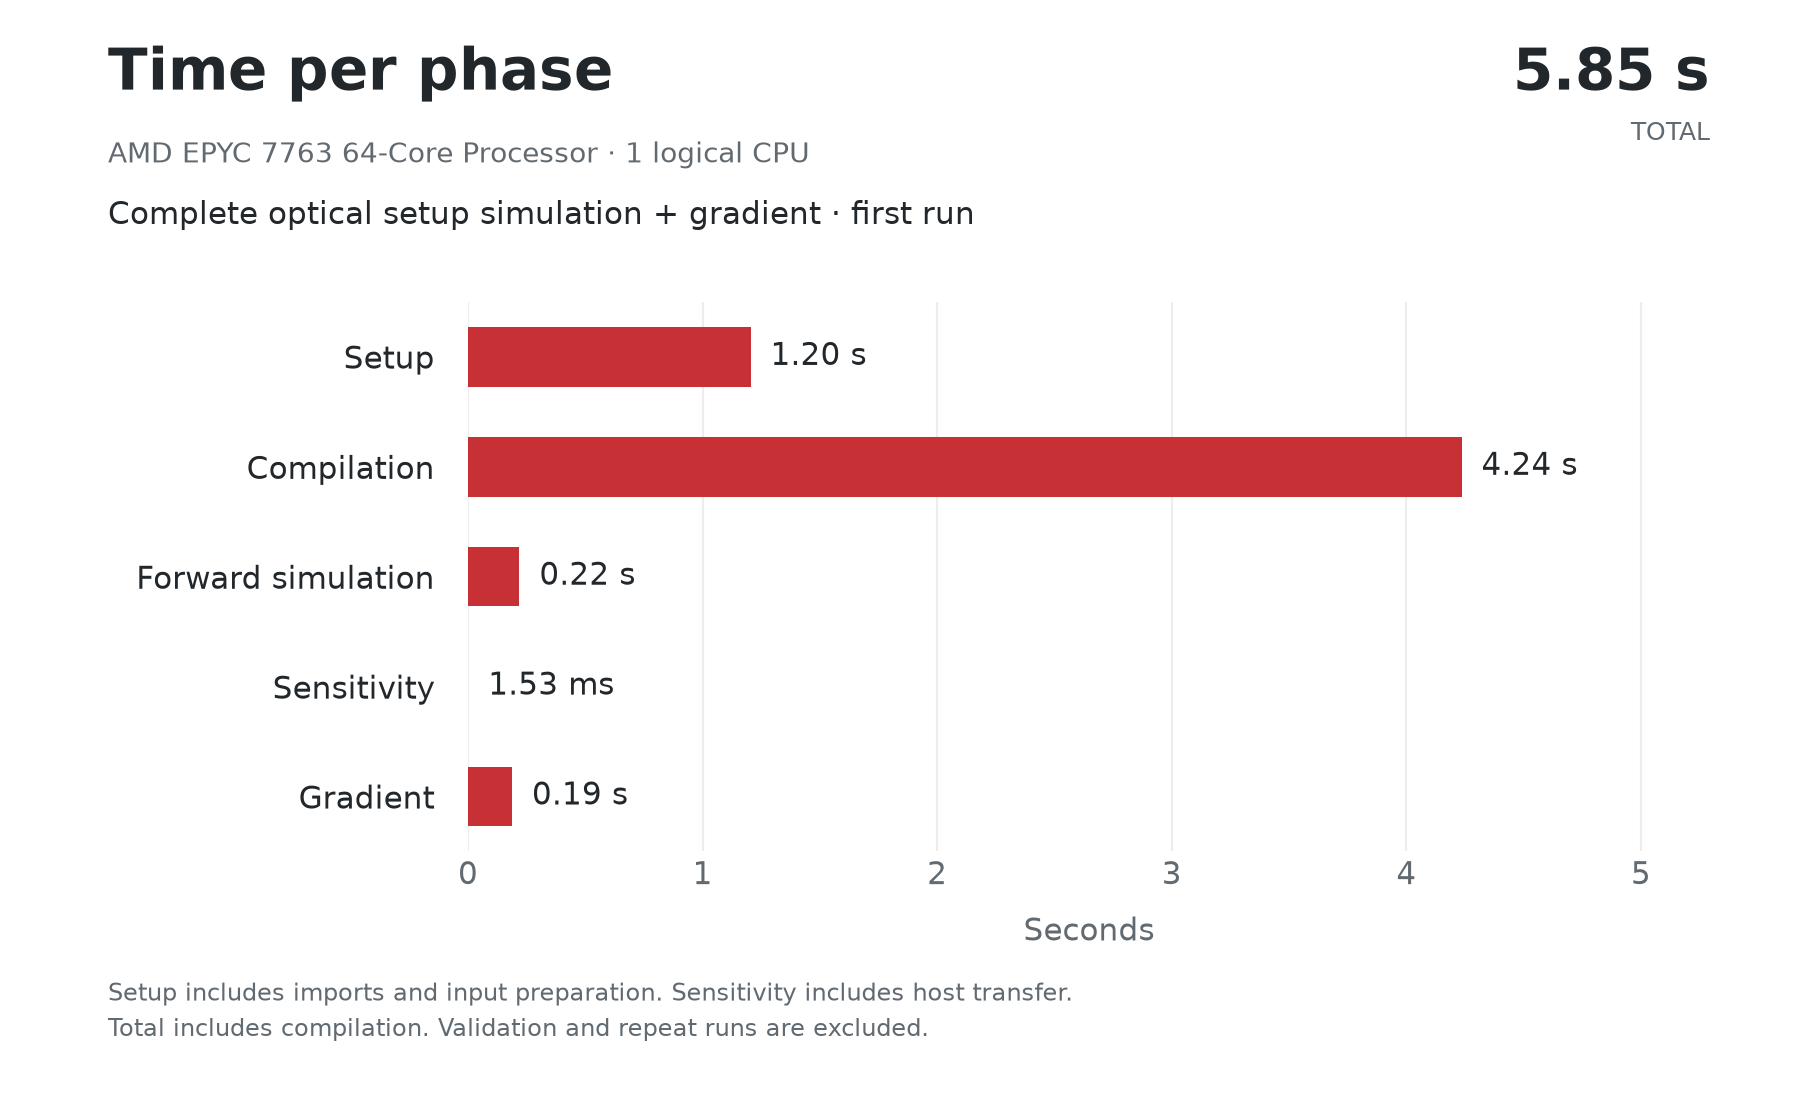
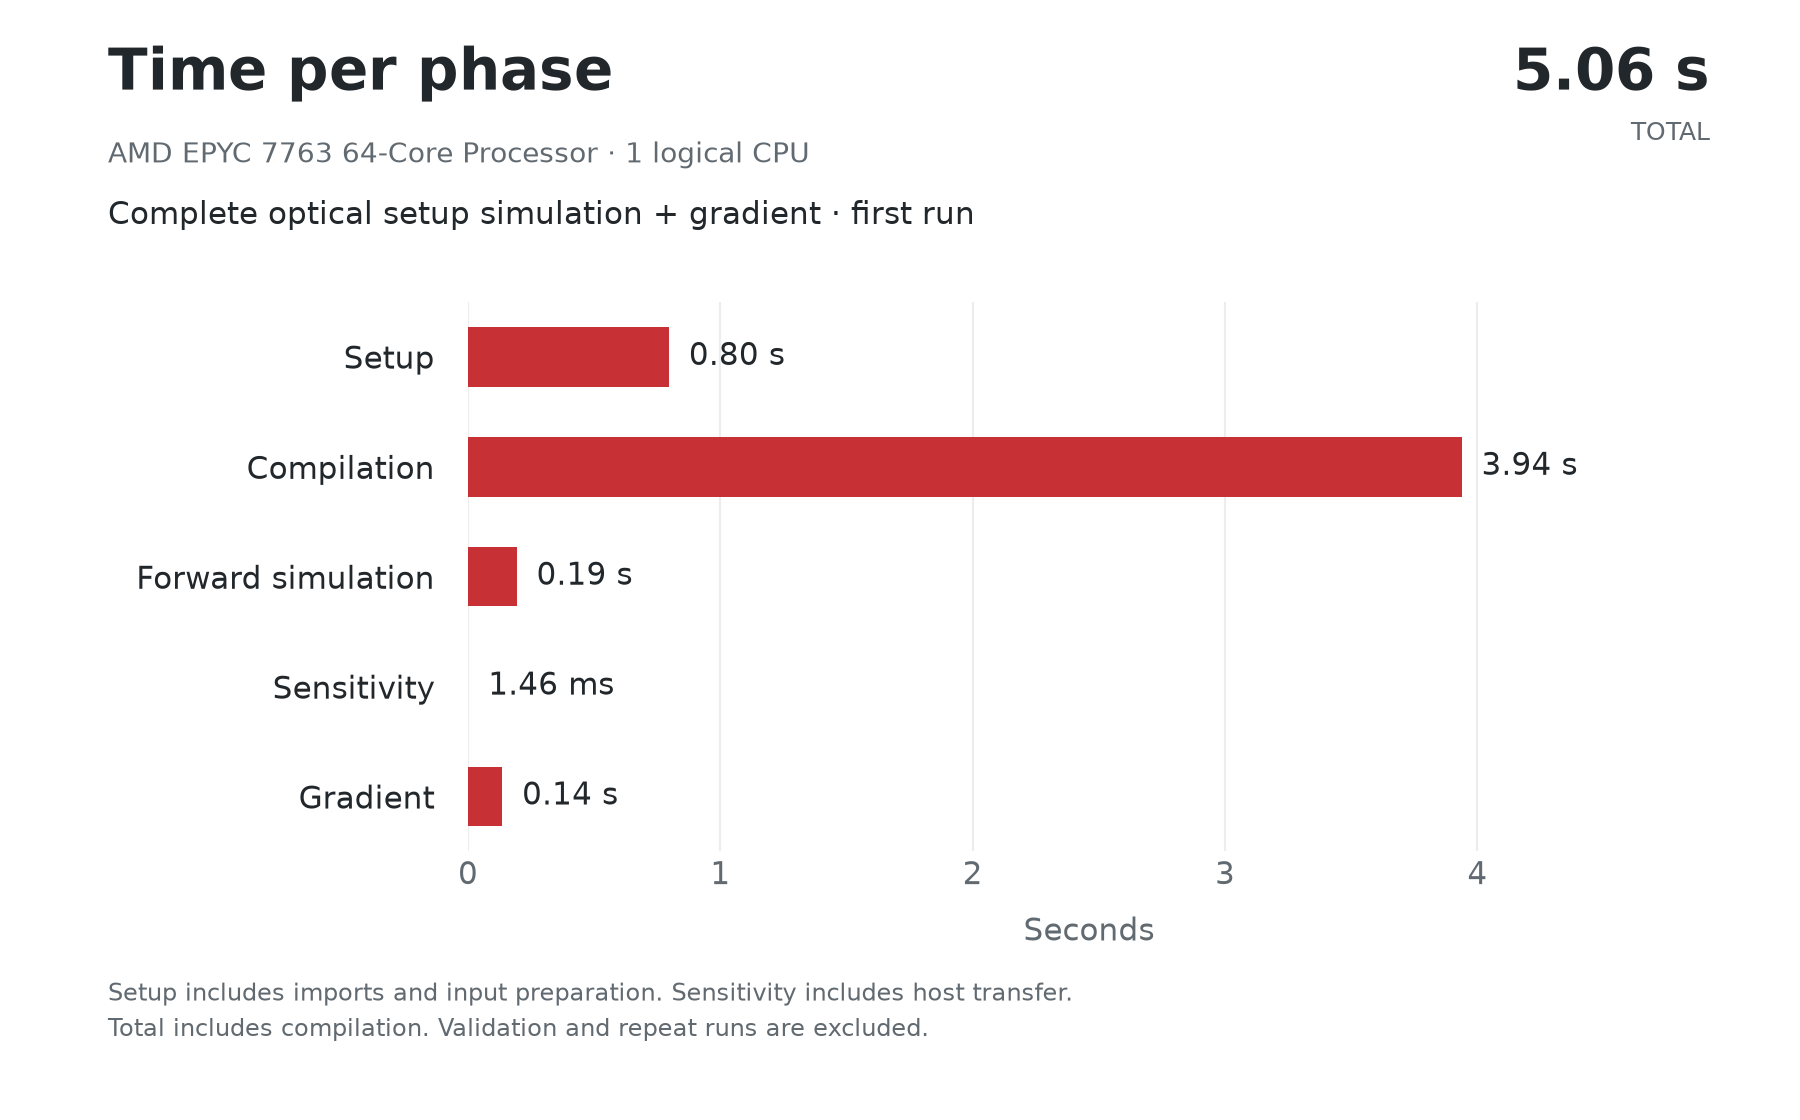
Drop the redundant noise solve, trace functions on whole arrays, build with NumPy
- The noise projection Re(c^H A^-1 N w) with c = A^H w equals Re(w^H N w),
  so the third signal solve per frequency is removed.
- evaluate() calls each component function once on arrays instead of under
  vmap; standardize_output() broadcasts its entries to allow that.
- The build step evaluates its constant matrix entries with NumPy, which
  avoids 65 small device compilations.

Complete first run on one AMD EPYC core: 5.7 s -> 5.1 s. Outputs pass the
benchmark and match the original to about 6e-8, also at perturbed parameters.

diff --git a/differometor/simulate.py b/differometor/simulate.py
@@ -26,7 +26,7 @@ from jax import lax, vmap, jit
 
 from differometor.setups import Setup
 from differometor.build import build, pairs_to_arrays, prepare_arrays, LINKING_FUNCTIONS
-from differometor.components import FUNCTIONS, UNIT_VACUUM, H_PLANCK, F0
+from differometor.components import FUNCTIONS, UNIT_VACUUM, H_PLANCK, F0, numpy_backend
 
 
 jax.config.update("jax_enable_x64", True)
@@ -94,7 +94,7 @@ def evaluate(
     Parameters
     ----------
     parameters : jnp.ndarray
-        Parameter values for one simulation instance, shape (P,).
+        Parameter values, shape (P,) for one simulation instance or (V, P) for V of them.
     function_input_indices : jnp.ndarray
         Indices into `parameters` selecting inputs to the component functions,
         shape (K, 7).
@@ -108,7 +108,7 @@ def evaluate(
     Returns
     -------
     outputs : jnp.ndarray
-        Selected function outputs, shape (M,).
+        Selected function outputs, shape (M,) or (V, M).
 
     Notes
     -----
@@ -116,14 +116,19 @@ def evaluate(
     traced once and only for the inputs that use it. Selecting with `lax.switch`
     under `vmap` instead evaluates every function for every input and compiles
     several times slower.
+
+    The component functions work elementwise on their seven inputs, so each one is
+    called once on arrays of shape (7, ..., K_f) instead of under `vmap`, which is
+    slower to trace.
     """
-    function_inputs = parameters[function_input_indices]
     function_indices = function_indices.array
-    output_matrix = jnp.zeros((len(function_indices), 4), dtype=jnp.complex128)
+    output_matrix = jnp.zeros((*parameters.shape[:-1], len(function_indices), 4), dtype=jnp.complex128)
     for function_index in np.unique(function_indices):
         inputs = np.nonzero(function_indices == function_index)[0]
-        output_matrix = output_matrix.at[inputs].set(vmap(FUNCTIONS[function_index])(function_inputs[inputs]))
-    return output_matrix[output_indices[0], output_indices[1]]
+        function_inputs = jnp.moveaxis(parameters[..., function_input_indices[inputs]], -1, 0)
+        function_outputs = jnp.moveaxis(FUNCTIONS[function_index](function_inputs), 0, -1)
+        output_matrix = output_matrix.at[..., inputs, :].set(function_outputs)
+    return output_matrix[..., output_indices[0], output_indices[1]]
 
 
 def update(
@@ -140,7 +145,7 @@ def update(
     Parameters
     ----------
     parameters, function_input_indices, output_indices, function_indices :
-        See `evaluate`.
+        See `evaluate`. `parameters` has shape (P,) here.
     matrix : jnp.ndarray
         Base matrix to update, shape (N, N + 1) for augmented systems, or (N, N).
     matrix_indices : tuple[jnp.ndarray, jnp.ndarray]
@@ -341,14 +346,13 @@ def simulate(
     # Carrier solve
     # --------------------
     parameters = expand_parameters(parameters, carrier_changing_parameter_indices, carrier_changing_values)
-    carrier_matrix = vmap(update, in_axes=(0, None, None, None, None, None))(
-        parameters,
-        carrier_matrix,
-        carrier_function_input_indices,
-        carrier_output_indices,
-        carrier_matrix_indices,
-        carrier_function_indices,
+    carrier_outputs = evaluate(
+        parameters, carrier_function_input_indices, carrier_output_indices, carrier_function_indices
     )
+    carrier_matrix = jnp.broadcast_to(
+        carrier_matrix.astype(jnp.complex128), (parameters.shape[0], *carrier_matrix.shape)
+    )
+    carrier_matrix = carrier_matrix.at[:, carrier_matrix_indices[0], carrier_matrix_indices[1]].set(carrier_outputs)
     carrier = vmap(solve)(carrier_matrix[:, :, :-1], carrier_matrix[:, :, -1])
 
     # --------------------
@@ -366,9 +370,7 @@ def simulate(
     ).astype(jnp.complex128)
     signal_values = jnp.broadcast_to(signal_values, (signal_value_count, signal_values.shape[0]))
     signal_values = signal_values.at[:, signal_sparse_indices["update_slots"]].set(
-        vmap(evaluate, in_axes=(0, None, None, None))(
-            parameters, signal_function_input_indices, signal_output_indices, signal_function_indices
-        )
+        evaluate(parameters, signal_function_input_indices, signal_output_indices, signal_function_indices)
     )
 
     # Scale signal connector entries by the carrier solution at the respective spaces.
@@ -442,19 +444,17 @@ def simulate(
     noise_values = noise_matrix[noise_rows, noise_columns].astype(jnp.complex128)
     noise_values = jnp.broadcast_to(noise_values, (signal_value_count, noise_values.shape[0]))
     noise_values = noise_values.at[:, noise_sparse_indices["update_slots"]].set(
-        vmap(evaluate, in_axes=(0, None, None, None))(
-            parameters, noise_function_input_indices, noise_output_indices, noise_function_indices
+        evaluate(parameters, noise_function_input_indices, noise_output_indices, noise_function_indices)
+    )
+
+    # Propagating the noise sources N w through the signal matrix A and projecting on the
+    # selections c = A^H w gives Re(c^H A^-1 N w) = Re(w^H N w), so no further solve is needed.
+    temporary_sum = jnp.real(
+        jnp.sum(
+            noise_values[:, :, None] * noise_weights[:, noise_columns] * jnp.conjugate(noise_weights[:, noise_rows]),
+            axis=1,
         )
-    )
-
-    # Project noise sources into the system and propagate through the signal matrix.
-    noise_sources = jnp.zeros_like(noise_weights).at[:, noise_rows].add(
-        noise_values[:, :, None] * noise_weights[:, noise_columns]
-    )
-    covariances = klujax.solve(rows, columns, signal_values, noise_sources)
-
-    # Convert propagated covariances into amplitude spectral density.
-    temporary_sum = jnp.sum(jnp.real(covariances * jnp.conjugate(carrier_selections)), axis=1).T
+    ).T
     noise = jnp.sqrt(2 * temporary_sum * UNIT_VACUUM * H_PLANCK * F0 * 0.25)
 
     return carrier.T, signal.T, noise.squeeze()
@@ -568,7 +568,8 @@ def run_build_step(
     """
     start = time()
 
-    instructions, matrices, metadata = build(setup)
+    with numpy_backend():
+        instructions, matrices, metadata = build(setup)
     arrays_to_prepare, carrier_arrays, signal_arrays, noise_arrays = pairs_to_arrays(
         *instructions, optimization_pairs, changing_pairs
     )

diff --git a/differometor/components.py b/differometor/components.py
@@ -34,8 +34,28 @@ to match phase conventions and signs.
 
 from __future__ import annotations
 
+from contextlib import contextmanager
+
 import jax.numpy as jnp
 import numpy as np
+
+
+@contextmanager
+def numpy_backend():
+    """
+    Evaluate the functions of this module with NumPy instead of JAX.
+
+    The build step evaluates component functions on plain numbers to fill in the
+    constant matrix entries. With JAX every such scalar operation is dispatched to,
+    and at first use compiled for, the device, which made up about half of the build
+    time. Nothing computed inside this context is traced or differentiated.
+    """
+    global jnp
+    jax_numpy, jnp = jnp, np
+    try:
+        yield
+    finally:
+        jnp = jax_numpy
 
 
 # -----------------------------------------------------------------------------
@@ -101,14 +121,14 @@ def standardize_output(output: list) -> jnp.ndarray:
     Parameters
     ----------
     output:
-        Python list of scalars (real or complex). If shorter than 4, it is padded
-        with zeros to length 4.
+        Python list of scalars or equally shaped arrays (real or complex). If shorter
+        than 4, it is padded with zeros to length 4.
 
     Returns
     -------
     jax.numpy.ndarray
-        A length-4 complex vector (`complex128`) suitable for stacking into a
-        global simulation matrix.
+        A complex array (`complex128`) of shape (4, ...) suitable for stacking into a
+        global simulation matrix. For scalar entries this is a length-4 vector.
 
     Rationale
     ---------
@@ -119,7 +139,9 @@ def standardize_output(output: list) -> jnp.ndarray:
     output_length = len(output)
     if output_length < 4:
         output.extend([0] * (4 - output_length))
-    return jnp.array(output, dtype=jnp.complex128)
+    # Broadcasting lets a component function be called once on whole arrays of inputs.
+    shape = jnp.broadcast_shapes(*(jnp.shape(entry) for entry in output))
+    return jnp.stack([jnp.broadcast_to(jnp.asarray(entry, dtype=jnp.complex128), shape) for entry in output])
 
 
 # -----------------------------------------------------------------------------

diff --git a/differometor/build.py b/differometor/build.py
@@ -1285,7 +1285,7 @@ def build(setup: Setup):
             target_output_index = target_index
 
         # Initialize the carrier matrix with the space propagation entry.
-        space_entry = space(jnp.array([F, data["properties"]["length"], data["properties"]["refractive_index"]]))[0]
+        space_entry = space(np.array([F, data["properties"]["length"], data["properties"]["refractive_index"]]))[0]
         carrier_matrix[source_input_index, target_output_index] = space_entry
         carrier_matrix[target_input_index, source_output_index] = space_entry
 

diff --git a/CHANGES.md b/CHANGES.md
@@ -9,24 +9,26 @@ Official benchmark (`python benchmark.py --cpus 1`), complete first run, one CPU
 | Machine | Original | Ours |
 | --- | ---: | ---: |
 | Intel Xeon Platinum 8468 (Feyer's published baseline) | 44.2 s | not measured yet |
-| AMD EPYC 7763, GitHub Codespace, Python 3.12 | does not fit in 16 GB of RAM | **5.8 s** |
+| AMD EPYC 7763, GitHub Codespace, Python 3.12 | does not fit in 16 GB of RAM | **5.1 s** |
 
 Same Codespace, one core, both versions in the style of `start_here.py` (one compile, one run):
 
 | | Original | Ours |
 | --- | ---: | ---: |
-| Setup | 1.4 s | 1.2 s |
-| Compile | 22.6 s | 4.0 s |
+| Setup | 1.4 s | 0.8 s |
+| Compile | 22.6 s | 3.8 s |
 | First run | 11.7 s | 0.3 s |
-| **Total** | **35.8 s** | **5.6 s** |
+| **Total** | **35.8 s** | **4.8 s** |
 
-A repeat run, once compiled, takes 0.34 s in the official benchmark (the published baseline is 17.7 s).
+A repeat run, once compiled, takes 0.25 s in the official benchmark (the published baseline is 17.7 s).
+
+The two machines in the first table are different, so 44.2 s and 5.1 s are not a same-hardware comparison. The second table is.
 
 The report and chart of our run are in `benchmarks/codespace-candidate.json` and `benchmarks/codespace-candidate.png`.
 
-## The four changes
+## The seven changes
 
-All code changes are in `differometor/simulate.py` and `differometor/__init__.py`. The physics functions in `components.py` and the builder in `build.py` are untouched.
+Most of the code changes are in `differometor/simulate.py`. The formulas of the physics functions in `components.py` are untouched.
 
 ### 1. Solve the signal system with a sparse solver
 
@@ -67,7 +69,34 @@ All code changes are in `differometor/simulate.py` and `differometor/__init__.py
 - **Safety:** XLA stops with an error on a flag it does not know. The second and fourth flag exist in the pinned jaxlib 0.9.0 but not in every release, so they are only added when jaxlib is a 0.9 version.
 - **Transparency:** the benchmark records the flags in its report under `environment.xla_flags`.
 
-## Step by step (Apple M5, official benchmark without CPU pinning)
+### 5. Drop the third signal solve
+
+- **What:** the noise calculation solved the signal system three times per frequency. The third solve is gone; the noise is computed directly from the result of the second.
+- **Why:** it was algebraically redundant. With `A` the signal matrix, `N` the noise matrix, `c` the detector selection and `w` the solution of `Aᴴw = c`, the code computed `y = A⁻¹Nw` and then `Re(cᴴy)`. Substituting gives `Re(wᴴA·A⁻¹Nw) = Re(wᴴNw)`, which needs no solve.
+- **What it is not:** nothing is skipped or stored. The signal and noise systems are still assembled and solved for every frequency from the current parameters; one internal solve whose result cancels out is removed.
+
+### 6. Call each physics function once on whole arrays
+
+- **What:** `evaluate()` calls each physics function once with all its inputs as arrays, instead of wrapping it in `vmap` per entry. `standardize_output()` in `components.py` now broadcasts its entries so this works; for single numbers it behaves as before.
+- **Why:** tracing through two layers of `vmap` is slow in Python. All 19 functions work elementwise and give identical results when called this way (checked for each one).
+
+### 7. Fill in the build step's constants with NumPy
+
+- **What:** `components.numpy_backend()` makes the physics functions use NumPy while the build step evaluates them on plain numbers to fill in constant matrix entries.
+- **Why:** with JAX, each of those scalar operations was sent to the device and compiled on first use: 65 small compilations, about half the build time. The built arrays are bit-for-bit the same.
+
+### Changes 5–7 measured one at a time
+
+Official benchmark on the Codespace, one core, each version run twice:
+
+| Version | Total | Build | Forward trace | Repeat run |
+| --- | ---: | ---: | ---: | ---: |
+| Changes 1–4 | 5.75 s, 5.70 s | 0.77 s | 1.2 s | 0.34 s |
+| + change 7 | 5.36 s, 5.35 s | 0.40 s | 1.2 s | 0.35 s |
+| + change 5 | 5.28 s, 5.20 s | 0.39 s | 1.2 s | 0.29 s |
+| + change 6 | 5.15 s, 5.09 s | 0.40 s | 1.0 s | 0.27 s |
+
+## Step by step, changes 1–3 (Apple M5, official benchmark without CPU pinning)
 
 | Version | Total | Compile | Forward | Gradient |
 | --- | ---: | ---: | ---: | ---: |
@@ -87,12 +116,13 @@ Change 4 was measured on Linux only (table above).
   | Output | Largest difference, relative to its largest value |
   | --- | ---: |
   | Carrier, powers | below 1e-19 |
-  | Signal | 5.7e-08 |
+  | Signal | 5.9e-08 |
   | Noise | 1.5e-08 |
-  | Sensitivity | 2.0e-09 |
-  | Gradient (193 values) | 2.4e-08 |
+  | Sensitivity | 2.6e-09 |
+  | Gradient (193 values) | 2.7e-08 |
 
   The remaining differences come from using a different solver on a matrix that is very sensitive to rounding.
+- **Other parameter values:** at three parameter sets with every design variable moved randomly by about 0.1%, original and ours agree to 2e-07 or better in log sensitivity and 5e-08 or better in the gradient (Apple M5).
 - **Other public setups:** `examples/aligo.py` still passes its own comparison with Finesse (limit 1e-6). `examples/cavity.py` and `examples/voyager.py` run.
 - **What is computed:** all 101 frequencies, all 193 design variables, double precision. No answers are stored and no calculation is skipped.
 
